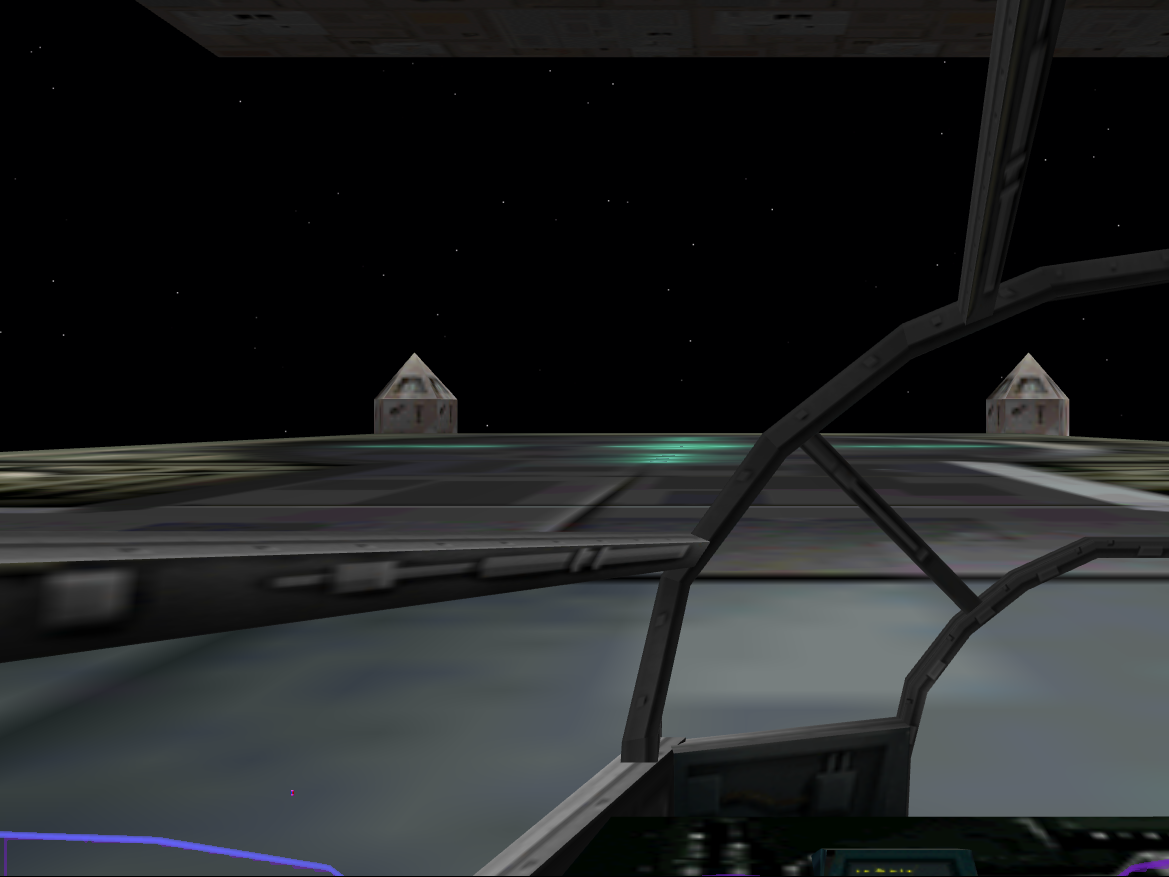
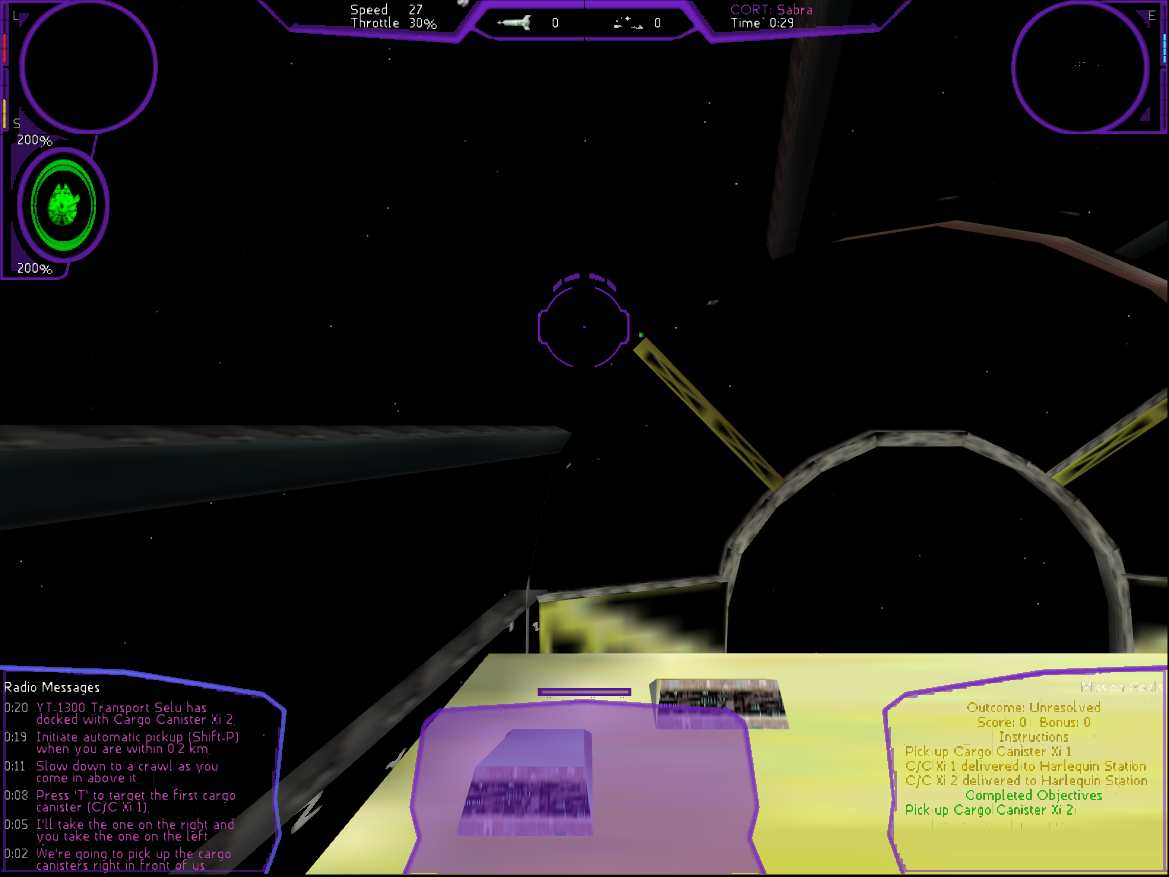
Flight HUD: 32-bit texture formats, 3D in the target's own size (800x600), in-flight menu shown as 16-bit
- EnumTextureFormats offers A8R8G8B8/X8R8G8B8: XWA v2.02 fills its HUD
  textures 4 bytes a pixel, so the 16-bit ones came out as garbage.
- The vertex shader took screen-space coordinates as 640x480; XWA flies at
  800x600, so the view was zoomed 1.25x and cropped. It now uses the 3D
  target's size.
- The in-flight menu writes 16-bit pixels into the 32-bit surface; present
  spots it and shows it as 16-bit.
- XVT_LOGFMT=1 logs each surface format the game creates.

diff --git a/src/runtime/gpu.c b/src/runtime/gpu.c
@@ -39,6 +39,7 @@ const char* const gpu_mode_names[GPU_NMODES] = { "sharp", "smooth", "crt", "near
 
 #define GW 640
 #define GH 480
+int gpu_screen_w = GW, gpu_screen_h = GH;   /* the game's 3D target: XWA flies at 800x600 */
 
 typedef HRESULT (WINAPI *compile_fn)(LPCVOID, SIZE_T, LPCSTR, const void*, void*, LPCSTR, LPCSTR,
                                      UINT, UINT, ID3DBlob**, ID3DBlob**);
@@ -77,15 +78,15 @@ static const char k_hlsl[] =
 "  return float4(c.rgb, 1);\n"
 "}\n"
 /* the game's 3D */
-"cbuffer S : register(b1) { float4 fogcol; float xscale; int texon; int mapblend; int spec; int fog; int atest; float aref; int pad2; };\n"
+"cbuffer S : register(b1) { float4 fogcol; float xscale; int texon; int mapblend; int spec; int fog; int atest; float aref; int pad2; float hw; float hh; float2 pad3; };\n"
 "struct VI { float4 p : POSITION; float4 c : COLOR0; float4 s : COLOR1; float2 t : TEXCOORD0; };\n"
 "struct VO { float4 p : SV_Position; float4 c : COLOR0; float4 s : COLOR1; float2 t : TEXCOORD0; };\n"
 "Texture2D tex : register(t1);\n"
 "SamplerState s_tex : register(s2);\n"
 "VO vs_tl(VI i) {\n"
 "  VO o;\n"
-"  float x = (i.p.x / 320.0 - 1.0) * xscale;\n"               /* Hor+: the 4:3 middle of a wider view */
-"  o.p = float4(x, 1.0 - i.p.y / 240.0, saturate(i.p.z), 1);\n"
+"  float x = (i.p.x / hw - 1.0) * xscale;\n"               /* Hor+: the 4:3 middle of a wider view */
+"  o.p = float4(x, 1.0 - i.p.y / hh, saturate(i.p.z), 1);\n"
 "  if (i.p.w > 1e-6 && i.p.w < 1e6) o.p *= 1.0 / i.p.w;\n"     /* perspective-correct texturing */
 "  o.c = i.c; o.s = i.s; o.t = i.t; return o;\n"
 "}\n"
@@ -224,7 +225,7 @@ int gpu_init(HWND w) {
     };
     ID3D11Device_CreateInputLayout(g_dev, il, 4, ID3D10Blob_GetBufferPointer(vt), ID3D10Blob_GetBufferSize(vt), &g_layout);
     g_cb_p = buffer(32, D3D11_BIND_CONSTANT_BUFFER);
-    g_cb_s = buffer(48, D3D11_BIND_CONSTANT_BUFFER);
+    g_cb_s = buffer(64, D3D11_BIND_CONSTANT_BUFFER);
     g_vb = buffer(MAXV * sizeof(gpu_vertex), D3D11_BIND_VERTEX_BUFFER);
     g_ib = buffer(MAXI * 2, D3D11_BIND_INDEX_BUFFER);
     g_s_lin = sampler(D3D11_FILTER_MIN_MAG_MIP_LINEAR, D3D11_TEXTURE_ADDRESS_CLAMP, 1);
@@ -484,10 +485,11 @@ void gpu_draw(const gpu_vertex* v, int nv, const uint16_t* idx, int ni, const gp
     if (!ib) return;
     memcpy(ib, idx, ni * 2);
     unmap(g_ib);
-    struct { float fog[4]; float xscale; int texon, mapblend, spec, fog_on, atest; float aref; int pad; } cb;
+    struct { float fog[4]; float xscale; int texon, mapblend, spec, fog_on, atest; float aref; int pad; float hw, hh, pad3[2]; } cb;
     cb.fog[0] = ((st->fogcolor >> 16) & 255) / 255.0f, cb.fog[1] = ((st->fogcolor >> 8) & 255) / 255.0f;
     cb.fog[2] = (st->fogcolor & 255) / 255.0f, cb.fog[3] = 1;
     cb.xscale = 1.0f / gpu_aspect_gain();
+    cb.hw = gpu_screen_w / 2.0f, cb.hh = gpu_screen_h / 2.0f, cb.pad3[0] = cb.pad3[1] = 0;
     cb.texon = st->tex > 0 && g_tex[st->tex].srv;
     cb.mapblend = st->mapblend ? st->mapblend : 2;
     cb.spec = st->specular, cb.fog_on = st->fog;

diff --git a/src/runtime/softdd.c b/src/runtime/softdd.c
@@ -241,6 +241,20 @@ static void write_shot(Surf* s) {
     fprintf(stderr, "[shot] frame %ld %dx%dx%d -> %s\n", softdd_frames, s->w, s->h, s->bpp, g_shot_path);
 }
 
+/* XWA's in-flight menu draws 16-bit pixels into the 32-bit flight surface
+ * (at its 32-bit pitch). True X8R8G8B8 has one top byte throughout; 565
+ * pairs do not. ponytail: a content check, a game flag if one turns up. */
+static int looks16(Surf* s) {
+    int odd = 0, n = 0;
+    for (int y = 8; y < s->h; y += 37)
+        for (int x = 3; x < s->w / 2; x += 29, n++) {
+            uint32_t a = ((uint32_t*)(s->bits + (size_t)y * s->pitch))[x] >> 24;
+            uint32_t b = ((uint32_t*)s->bits)[0] >> 24;
+            odd += a != b;
+        }
+    return odd * 4 > n;
+}
+
 static void present(Surf* s) {
     LONG n = InterlockedIncrement(&softdd_frames);
     if (n == 1 || n == 10 || n == 100 || n % 1000 == 0)
@@ -252,7 +266,8 @@ static void present(Surf* s) {
         record_frame(s);
     }
     if (!softdd_headless && g_dd && g_dd->hwnd && (gpu_ready() || gpu_init(g_dd->hwnd))) {
-        gpu_frame_2d(s->bits, s->w, s->h, s->pitch, s->bpp, screen_palette(), d3d_active() ? (int)KEY16 : -1);
+        int bpp = s->bpp == 32 && looks16(s) ? 16 : s->bpp;
+        gpu_frame_2d(s->bits, s->w, s->h, s->pitch, bpp, screen_palette(), d3d_active() ? (int)KEY16 : -1);
         gpu_present();
         d3d_frame_done();
     } else if (!softdd_headless && g_dd && g_dd->hwnd) {
@@ -779,6 +794,9 @@ static HRESULT WINAPI d_CreateSurface(IDirectDraw* This, LPDDSURFACEDESC d, LPDI
         g_new_fmt = (caps & DDSCAPS_ZBUFFER) ? &z16 : (d->dwFlags & DDSD_PIXELFORMAT) ? &d->ddpfPixelFormat : NULL;
         s = surf_new((int)d->dwWidth, (int)d->dwHeight, caps | ((caps & (DDSCAPS_TEXTURE | DDSCAPS_ZBUFFER)) ? 0 : DDSCAPS_OFFSCREENPLAIN));
         g_new_fmt = NULL;
+        if (getenv("XVT_LOGFMT"))
+            fprintf(stderr, "[fmt] %dx%d caps %08lX bpp %d masks %06X %06X %06X a %08X\n", s->w, s->h, caps, s->bpp,
+                    (unsigned)s->rmask, (unsigned)s->gmask, (unsigned)s->bmask, (unsigned)s->amask);
     }
     if (d->dwFlags & DDSD_CKSRCBLT) {
         s->has_ck = 1;

diff --git a/src/runtime/d3d.c b/src/runtime/d3d.c
@@ -373,8 +373,10 @@ static HRESULT WINAPI dev_EnumTexFormats(void* t, LPD3DENUMTEXTUREFORMATSCALLBAC
     static const DWORD fm[][6] = {   /* bits, r, g, b, a, palettized */
         { 16, 0xF800, 0x07E0, 0x001F, 0, 0 }, { 16, 0x7C00, 0x03E0, 0x001F, 0x8000, 0 },
         { 16, 0x0F00, 0x00F0, 0x000F, 0xF000, 0 }, { 8, 0, 0, 0, 0, 1 },
+        /* XWA v2.02 (4 bytes a pixel throughout) looks for these */
+        { 32, 0xFF0000, 0xFF00, 0xFF, 0xFF000000, 0 }, { 32, 0xFF0000, 0xFF00, 0xFF, 0, 0 },
     };
-    for (int i = 0; i < 4; i++) {
+    for (int i = 0; i < 6; i++) {
         DDSURFACEDESC d;
         memset(&d, 0, sizeof d);
         d.dwSize = sizeof d;
@@ -409,6 +411,7 @@ HRESULT d3d_device_create(Surf* target, void** out) {
     g_dev_obj.target = target;
     *out = &g_dev_obj;
     fprintf(stderr, "[d3d] device on a %dx%dx%d surface: rendered by gpu.c\n", target->w, target->h, target->bpp);
+    gpu_screen_w = target->w, gpu_screen_h = target->h;
     return DD_OK;
 }
 

diff --git a/src/runtime/gpu.h b/src/runtime/gpu.h
@@ -64,3 +64,4 @@ int gpu_shot_pending(void);
 void gpu_shot(const char* path);
 /* Hor+: how much wider than 4:3 the 3D view is (1.0 = 4:3). */
 float gpu_aspect_gain(void);
+extern int gpu_screen_w, gpu_screen_h;   /* screen-space vertices are in these */
